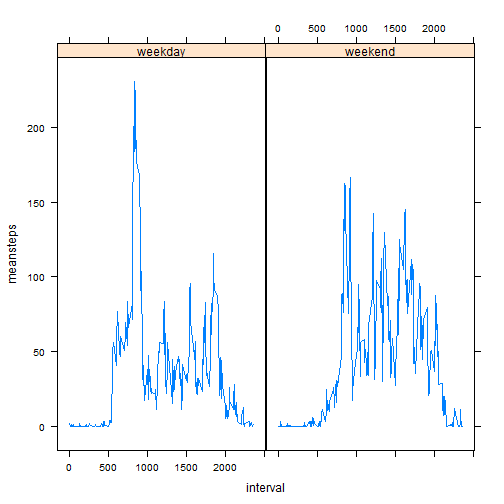
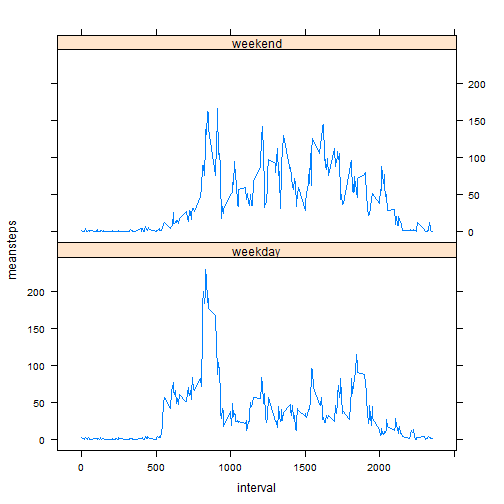
All done and works, first check done

diff --git a/PA1_template.html b/PA1_template.html
@@ -190,6 +190,9 @@ hr {
 </head>
 
 <body>
+<pre><code class="r">options(scipen=5) # for setting the threshold of displaying number with scientific notation
+</code></pre>
+
 <h1>Reproducible Research: Peer Assessment 1</h1>
 
 <p>Janne Simonen  </p>
@@ -230,7 +233,7 @@ meansteps &lt;- mean(stepsperday$steps)
 mediansteps &lt;- median(stepsperday$steps)
 </code></pre>
 
-<p>The mean steps per day is 9354 and median 1.0395 &times; 10<sup>4</sup>. 
+<p>The mean steps per day is 9354 and median 10395. 
 Let&#39;s plot a histogram.</p>
 
 <pre><code class="r">hist(stepsperday$steps,breaks=20,xlab=&quot;Steps per day&quot;,main=&quot;Histogram of steps per day&quot;)
@@ -270,7 +273,7 @@ time series plot</p>
 missingValues &lt;- nrow(activity) - sum(complete.cases(activity))
 </code></pre>
 
-<p>Of the {r nrow(activity)} rows of data thera are <strong>{r missingValues} rows with missing data</strong>.  </p>
+<p>Of the 17568 rows of data thera are <strong>2304 rows with missing data</strong>.  </p>
 
 <p>To make the analysis a bit more accurate, we have to replace the missing values with a sensible value.
 Let&#39;s use the mean number of steps for a given time interval as a replacement for all NAs recorder for that day.</p>
@@ -298,8 +301,8 @@ mediansteps.NArep &lt;- median(stepsperday.NArep$steps)
 </code></pre>
 
 <p>The mean steps per day for the data with NAs replace (values for original data in parenthesis) is 
-1.0766 &times; 10<sup>4</sup> (9354) and median 
-1.0762 &times; 10<sup>4</sup> (1.0395 &times; 10<sup>4</sup>).  </p>
+10766 (9354) and median 
+10762 (10395).  </p>
 
 <p>Let&#39;s plot a histogram.</p>
 
@@ -338,10 +341,10 @@ activity.NArep$daytype &lt;- as.factor(activity.NArep$daytype)
 <p>Finally, let&#39;s plot two time series figures to compare the data.</p>
 
 <pre><code class="r">library(&quot;lattice&quot;)
-xyplot(meansteps ~ interval | daytype, data = activity.NArep2, type = &quot;l&quot;)
+xyplot(meansteps ~ interval | daytype, data = activity.NArep2, type = &quot;l&quot;,layout = c(1, 2))
 </code></pre>
 
[2 lines of base64/hex data omitted]
 
 <p>We can see significant differences in the recorded average activity for weekdays and weekends, but a more
 detailed analysis is not a part of this project.</p>

diff --git a/PA1_template.md b/PA1_template.md
@@ -3,6 +3,12 @@ output:
   html_document:
     keep_md: yes
 ---
+
+
+```r
+options(scipen=5) # for setting the threshold of displaying number with scientific notation
+```
+
 # Reproducible Research: Peer Assessment 1
 Janne Simonen  
 
@@ -44,7 +50,7 @@ meansteps <- mean(stepsperday$steps)
 mediansteps <- median(stepsperday$steps)
 ```
 
-The mean steps per day is 9354 and median 1.0395 &times; 10<sup>4</sup>. 
+The mean steps per day is 9354 and median 10395. 
 Let's plot a histogram.
 
 
@@ -93,7 +99,7 @@ Let's calculate the total number of missing values in the dataset (i.e. the tota
 missingValues <- nrow(activity) - sum(complete.cases(activity))
 ```
 
-Of the {r nrow(activity)} rows of data thera are **{r missingValues} rows with missing data**.  
+Of the 17568 rows of data thera are **2304 rows with missing data**.  
 
 To make the analysis a bit more accurate, we have to replace the missing values with a sensible value.
 Let's use the mean number of steps for a given time interval as a replacement for all NAs recorder for that day.
@@ -125,8 +131,8 @@ mediansteps.NArep <- median(stepsperday.NArep$steps)
 ```
 
 The mean steps per day for the data with NAs replace (values for original data in parenthesis) is 
-1.0766 &times; 10<sup>4</sup> (9354) and median 
-1.0762 &times; 10<sup>4</sup> (1.0395 &times; 10<sup>4</sup>).  
+10766 (9354) and median 
+10762 (10395).  
 
 Let's plot a histogram.
 
@@ -175,7 +181,7 @@ Finally, let's plot two time series figures to compare the data.
 
 ```r
 library("lattice")
-xyplot(meansteps ~ interval | daytype, data = activity.NArep2, type = "l")
+xyplot(meansteps ~ interval | daytype, data = activity.NArep2, type = "l",layout = c(1, 2))
 ```
 
 ![plot of chunk weekdaysplot](figure/weekdaysplot.png) 
